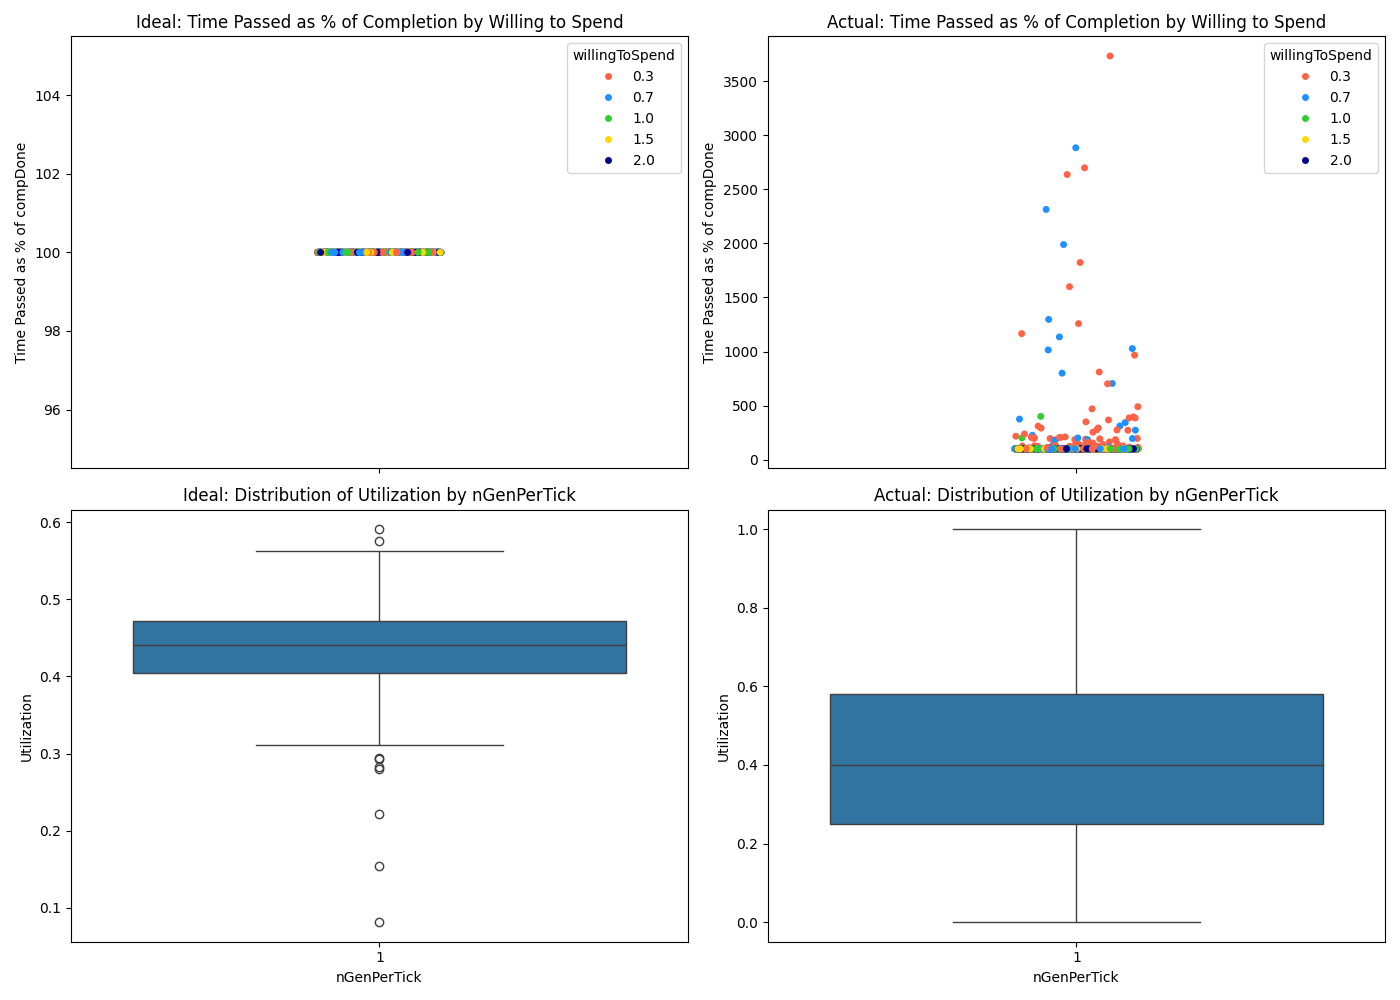
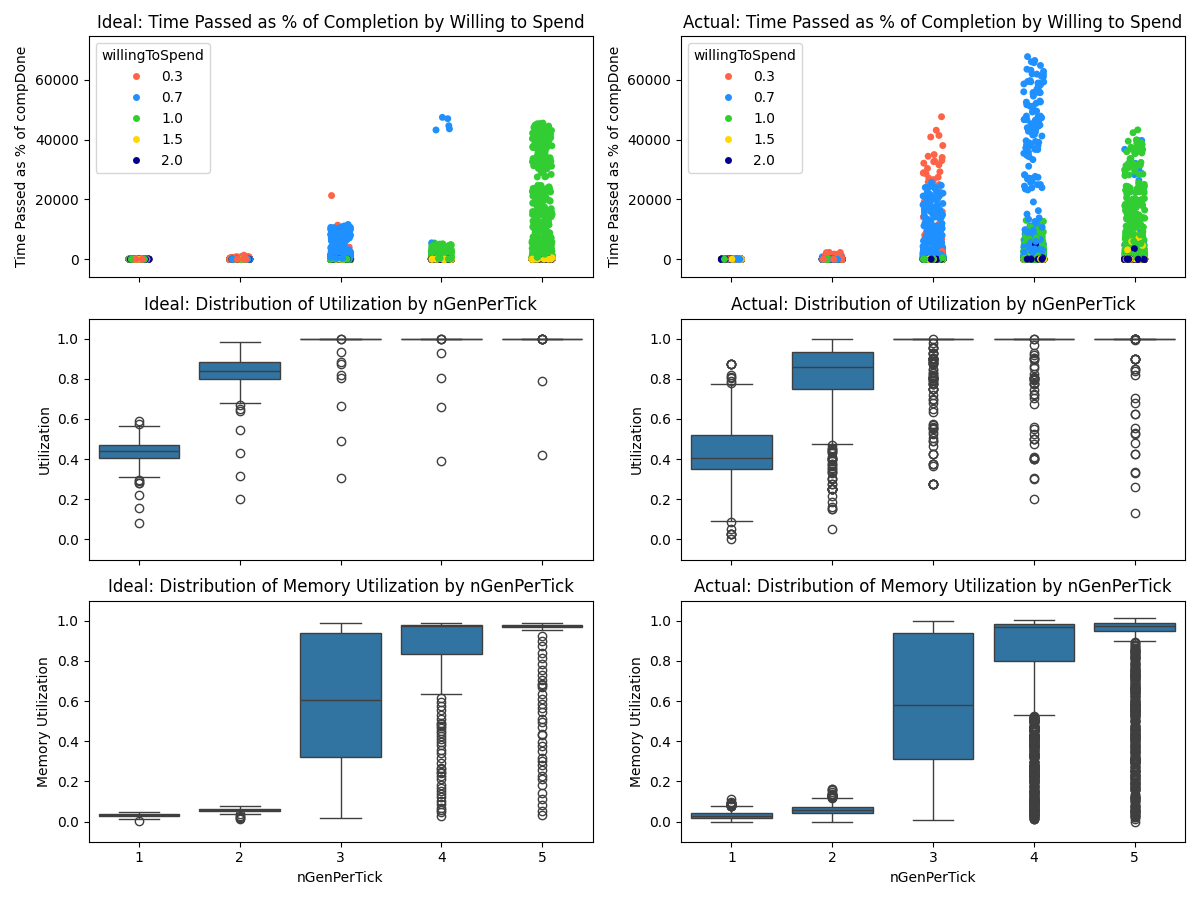
trying stuff with placement from gs, for now doing based only off qlen; added memory to the plotting

diff --git a/results/usage_plots.py b/results/usage_plots.py
@@ -4,6 +4,7 @@ import seaborn as sns  # Seaborn is a great library for creating scatter plots
 
 numMachines = 10
 coresPerMachine = 8
+totalMemoryPerMachine = 512000
 
 # Load the data
 ideal_usage_metrics = pd.read_csv("ideal_usage.txt", index_col=None, names=["nGenPerTick", "tick", "ticksLeftOver", "memFree"])
@@ -20,39 +21,78 @@ actual_procs_done["timeAsPercentage"] = (actual_procs_done["timePassed"] / actua
 ideal_usage_metrics["utilization"] = (numMachines * coresPerMachine - ideal_usage_metrics["ticksLeftOver"]) / (numMachines * coresPerMachine)
 actual_usage_metrics["utilization"] = (coresPerMachine - actual_usage_metrics["ticksLeftOver"]) / (coresPerMachine)
 
-# Create the figure with four subplots (2 rows, 2 columns)
-fig, ax = plt.subplots(2, 2, figsize=(14, 10), sharex=True)
+# 3. Compute memory utilization (1 - memFree / totalMemory)
+ideal_usage_metrics["mem_utilization"] = 1 - (ideal_usage_metrics["memFree"] / (numMachines * totalMemoryPerMachine))
+actual_usage_metrics["mem_utilization"] = 1 - (actual_usage_metrics["memFree"] / totalMemoryPerMachine)
+
+print("num ideal finished: ", len(ideal_procs_done))
+print("num actual finished: ", len(actual_procs_done))
+
+
+# Create the figure with six subplots (3 rows, 2 columns)
+fig, ax = plt.subplots(3, 2, figsize=(12, 9), sharex=True)
 
 # High contrast color palette
 high_contrast_palette = ["#FF6347", "#1E90FF", "#32CD32", "#FFD700", "#00008B"]
 
-# 3. First subplot: Strip plot for Time Passed as % of Completion for Ideal data
+# 4. First subplot: Strip plot for Time Passed as % of Completion for Ideal data
 sns.stripplot(data=ideal_procs_done, x="nGenPerTick", y="timeAsPercentage", hue="willingToSpend", 
               jitter=True, palette=high_contrast_palette, ax=ax[0, 0])
 
 ax[0, 0].set_title("Ideal: Time Passed as % of Completion by Willing to Spend")
 ax[0, 0].set_ylabel("Time Passed as % of compDone")
 
-# 4. Second subplot: Violin plot for Utilization for Ideal data
+# 5. Second subplot: Violin plot for Utilization for Ideal data
 sns.boxplot(data=ideal_usage_metrics, x="nGenPerTick", y="utilization", ax=ax[1, 0])
 
 ax[1, 0].set_title("Ideal: Distribution of Utilization by nGenPerTick")
 ax[1, 0].set_xlabel("nGenPerTick")
 ax[1, 0].set_ylabel("Utilization")
 
-# 5. Third subplot: Strip plot for Time Passed as % of Completion for Actual data
+# 6. Third subplot: Strip plot for Time Passed as % of Completion for Actual data
 sns.stripplot(data=actual_procs_done, x="nGenPerTick", y="timeAsPercentage", hue="willingToSpend", 
               jitter=True, palette=high_contrast_palette, ax=ax[0, 1])
 
 ax[0, 1].set_title("Actual: Time Passed as % of Completion by Willing to Spend")
 ax[0, 1].set_ylabel("Time Passed as % of compDone")
 
-# 6. Fourth subplot: Violin plot for Utilization for Actual data
+# 7. Fourth subplot: Violin plot for Utilization for Actual data
 sns.boxplot(data=actual_usage_metrics, x="nGenPerTick", y="utilization", ax=ax[1, 1])
 
 ax[1, 1].set_title("Actual: Distribution of Utilization by nGenPerTick")
 ax[1, 1].set_xlabel("nGenPerTick")
 ax[1, 1].set_ylabel("Utilization")
+
+# 8. Fifth subplot: Violin plot for Memory Utilization for Ideal data
+sns.boxplot(data=ideal_usage_metrics, x="nGenPerTick", y="mem_utilization", ax=ax[2, 0])
+
+ax[2, 0].set_title("Ideal: Distribution of Memory Utilization by nGenPerTick")
+ax[2, 0].set_xlabel("nGenPerTick")
+ax[2, 0].set_ylabel("Memory Utilization")
+
+# 9. Sixth subplot: Violin plot for Memory Utilization for Actual data
+sns.boxplot(data=actual_usage_metrics, x="nGenPerTick", y="mem_utilization", ax=ax[2, 1])
+
+ax[2, 1].set_title("Actual: Distribution of Memory Utilization by nGenPerTick")
+ax[2, 1].set_xlabel("nGenPerTick")
+ax[2, 1].set_ylabel("Memory Utilization")
+
+# Set the same y-axis limits for each row (ideal and actual)
+# For Time Passed as % of Completion (Ideal and Actual)
+y_max_0 = max(ideal_procs_done["timeAsPercentage"].max(), actual_procs_done["timeAsPercentage"].max()) * 1.1
+y_min_0 = -0.08 * y_max_0
+
+# Set the limits for the first row (ax[0, 0] and ax[0, 1])
+ax[0, 0].set_ylim(y_min_0, y_max_0)
+ax[0, 1].set_ylim(y_min_0, y_max_0)
+
+# Set the limits for the second row (ax[1, 0] and ax[1, 1])
+ax[1, 0].set_ylim(-0.1, 1.1)
+ax[1, 1].set_ylim(-0.1, 1.1)
+
+# Set the limits for the third row (memory utilization)
+ax[2, 0].set_ylim(-0.1, 1.1)
+ax[2, 1].set_ylim(-0.1, 1.1)
 
 # Adjust the layout to avoid overlap
 plt.tight_layout()
@@ -60,3 +100,4 @@ plt.tight_layout()
 # Save the figure and show it
 plt.savefig('combined_res.png')
 plt.show()
+

diff --git a/gs.go b/gs.go
@@ -9,6 +9,7 @@ import (
 type TIdleMachine struct {
 	machine            Tid
 	highestCostRunning float32
+	qlen               int
 	memAvail           Tmem
 }
 
@@ -32,49 +33,49 @@ func useBestIdle(h *MinHeap, memNeeded Tmem) (TIdleMachine, bool) {
 
 	// under mem pressures: choose based off memory fitting
 
-	minHighestCost := float32(math.MaxFloat32)
-	maxMemAvail := Tmem(0.0)
-	indToUse := -1
+	// if there are many where it would fit, pick based off qlen and highestCostRunning
+
+	possMachines := make([]TIdleMachine, 0)
 
 	for ind := 0; ind < len(*h); ind++ {
-
-		item := (*h)[ind]
-
-		if item.memAvail > memNeeded {
-			if (item.highestCostRunning < minHighestCost) ||
-				((item.highestCostRunning == minHighestCost) && (item.memAvail > maxMemAvail)) {
-				minHighestCost = item.highestCostRunning
-				maxMemAvail = item.memAvail
-				indToUse = ind
-			}
+		idleMachine := (*h)[ind]
+		if idleMachine.memAvail > memNeeded {
+			possMachines = append(possMachines, idleMachine)
 		}
 	}
 
+	// minHighestCost := float32(math.MaxFloat32)
+	minQlen := math.MaxInt
+	indToUse := -1
+
+	for ind, idleMachine := range possMachines {
+		// trade qlen and priority off?
+		if idleMachine.qlen < minQlen {
+			indToUse = ind
+			minQlen = idleMachine.qlen
+		}
+		// if idleMachine.qlen < minQlen && idleMachine.highestCostRunning < minHighestCost {
+		// 	indToUse = ind
+		// 	minQlen = idleMachine.qlen
+		// 	minHighestCost = idleMachine.highestCostRunning
+		// } else if idleMachine.qlen < minQlen && idleMachine.highestCostRunning > minHighestCost {
+		// 	// current is running more expensive procs but has a shorter q
+		// 	diffInQlen := minQlen-idleMachine.qlen
+		// 	diffInCostRunning := idleMachine.highestCostRunning - minHighestCost
+		// 	if diffInQlen > diffInCostRunning {
+		// 		indToUse = ind
+		// 		minQlen = idleMachine.qlen
+		// 		minHighestCost = idleMachine.highestCostRunning
+		// 	}
+		// } else if idleMachine.qlen > minQlen && idleMachine.highestCostRunning < minHighestCost {
+		// 	// current is running a less expensive proc but has a longer q
+		// }
+	}
+
 	if indToUse < 0 {
-		// toWrite := "   found no good machine \n"
-		// logWrite(SCHED, toWrite)
 		return TIdleMachine{}, false
 	} else {
-		toRet := (*h)[indToUse]
-
-		// toWrite := fmt.Sprintf("   min highest cost: %v, max mem avail: %v, info to use: %v \n", minHighestCost, maxMemAvail, toRet)
-		// logWrite(SCHED, toWrite)
-
-		// if there is mem left, update value --> not anymore, this will be updated by machine after placement so that it's kept up to date with jobs finishing
-
-		// if (*h)[indToUse].memAvail-memNeeded > IDLE_HEAP_THRESHOLD {
-		// 	(*h)[indToUse].memAvail -= memNeeded
-
-		// 	// also if keeping it, update the highest cost
-		// 	if (*h)[indToUse].highestCostRunning < procPaying {
-		// 		(*h)[indToUse].highestCostRunning = procPaying
-		// 	}
-		// } else {
-		// 	// else remove it from the list
-		// 	*h = append((*h)[:indToUse], (*h)[indToUse+1:]...)
-		// 	removed = true
-		// }
-
+		toRet := possMachines[indToUse]
 		return toRet, true
 	}
 

diff --git a/machine_sched.go b/machine_sched.go
@@ -51,6 +51,7 @@ func newSched(numCores int, idleHeaps map[Tid]*IdleHeap, mid Tid, currTickPtr *T
 	toPush := TIdleMachine{
 		memAvail:           MEM_PER_MACHINE,
 		highestCostRunning: -1,
+		qlen:               0,
 		machine:            Tid(sd.machineId),
 	}
 	heapToUse.heap.Push(toPush)
@@ -135,7 +136,12 @@ func (sd *Sched) placeProc(newProc *Proc, fromGs Tid) (bool, TIdleMachine) {
 		sd.currHeapGSS = fromGs
 	}
 
-	return true, TIdleMachine{sd.machineId, maxCostRunning, sd.memFree()}
+	return true, TIdleMachine{
+		machine:            sd.machineId,
+		highestCostRunning: maxCostRunning,
+		qlen:               sd.activeQ.qlen(),
+		memAvail:           sd.memFree(),
+	}
 }
 
 // do numCores ticks of computation (only on procs in the activeQ)
@@ -228,6 +234,11 @@ func (sd *Sched) simulateRunProcs() {
 				toWrite := fmt.Sprintf("   -> done: %v\n", procToRun.String())
 				logWrite(SCHED, toWrite)
 
+				if (procToRun.timeDone - procToRun.timeStarted) > procToRun.compDone {
+					toWrite := fmt.Sprintf("   ---> OVER %v \n", procToRun.String())
+					logWrite(SCHED, toWrite)
+				}
+
 				toWrite = fmt.Sprintf("%v, %v, %v, %v \n", sd.worldNumProcsGenPerTick, procToRun.willingToSpend(), (procToRun.timeDone - procToRun.timeStarted).String(), procToRun.compDone.String())
 				logWrite(PROCS_DONE, toWrite)
 			}
@@ -294,6 +305,7 @@ func (sd *Sched) simulateRunProcs() {
 	toPush := TIdleMachine{
 		machine:            sd.machineId,
 		highestCostRunning: highestCost,
+		qlen:               sd.activeQ.qlen(),
 		memAvail:           sd.memFree(),
 	}
 	heapToUse.heap.Push(toPush)

diff --git a/world.go b/world.go
@@ -14,7 +14,7 @@ const (
 	K_CHOICES_DOWN = 3
 	K_CHOICES_UP   = 3
 
-	VERBOSE_SCHED_INFO       = true
+	VERBOSE_SCHED_INFO       = false
 	VERBOSE_USAGE_STATS      = true
 	VERBOSE_IDEAL_SCHED_INFO = false
 )

diff --git a/run_test.go b/run_test.go
@@ -17,7 +17,7 @@ const (
 
 	// this is per tenant
 	N_PROCS_GEN_PER_TICK_START = 1
-	N_PROCS_GEN_PER_TICK_END   = 1
+	N_PROCS_GEN_PER_TICK_END   = 5
 )
 
 func TestRunWorld(t *testing.T) {
